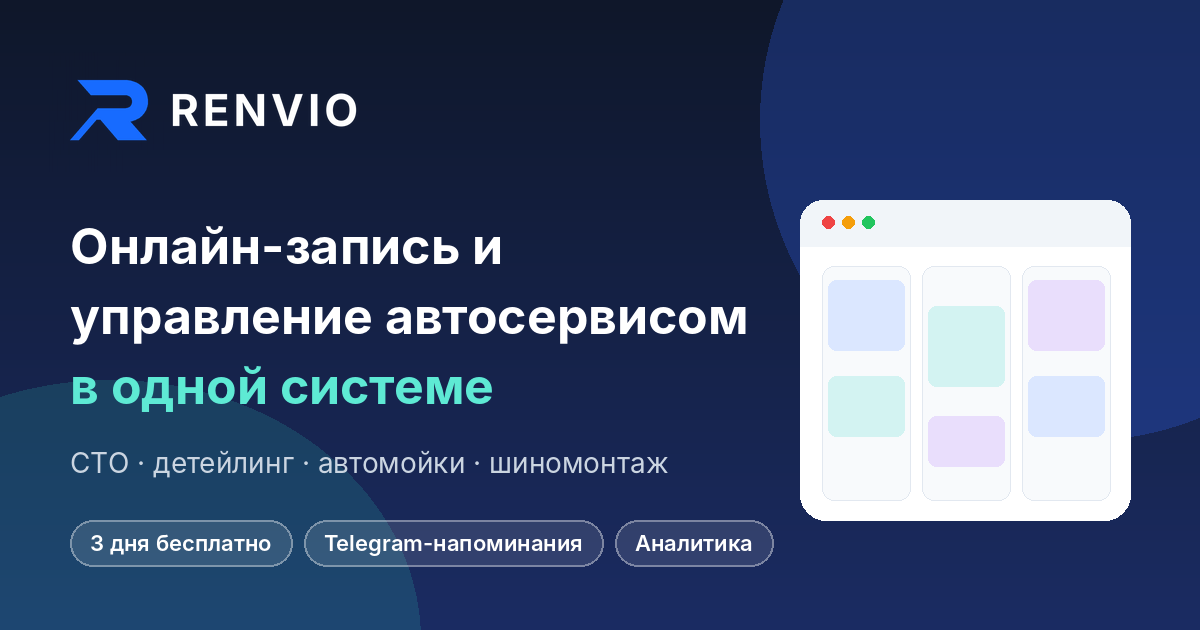
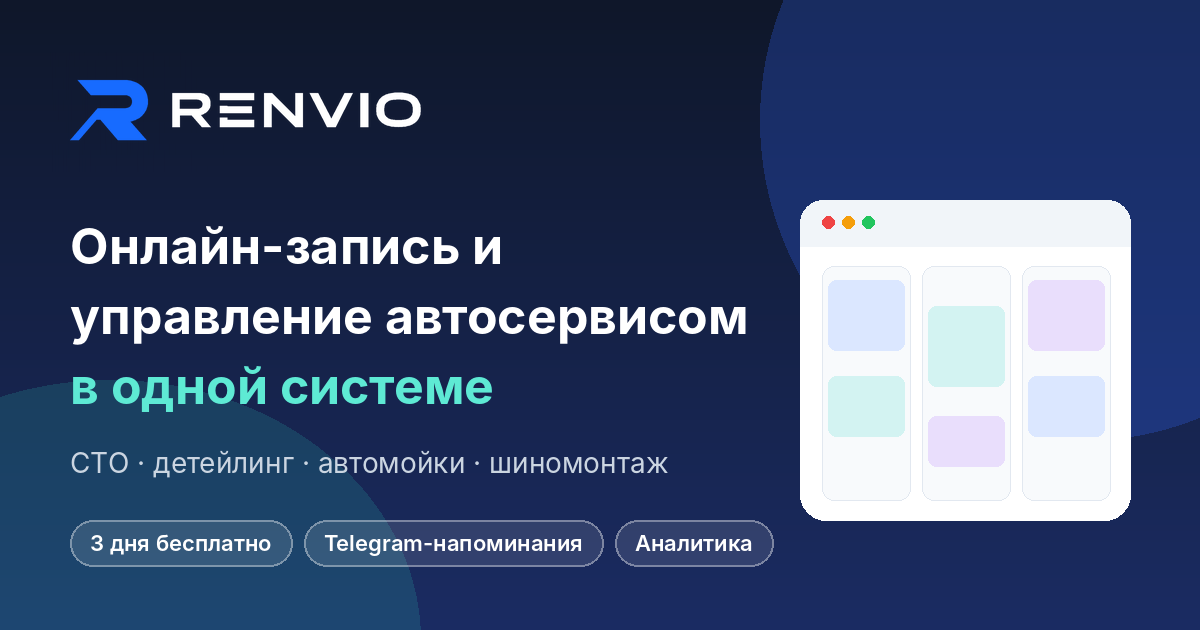
newwjgрпрпрпароолдолдрпарлОЛ

Changed region(s): [[0.1542, 0.1508, 0.37, 0.2111]]

diff --git a/src/pages/PlatformAdmin.tsx b/src/pages/PlatformAdmin.tsx
@@ -1,5 +1,5 @@
 import { maskPhone, PHONE_PLACEHOLDER } from '../lib/phone';
-import { BrandMark } from '../components/BrandMark'
+import { BrandMark, Wordmark } from '../components/BrandMark'
 import { useCallback, useEffect, useRef, useState, type FormEvent, type ReactNode } from 'react';
 import { recoveryLink, supabase } from '../lib/supabase';
 import { PasswordInput } from '../components/PasswordInput';
@@ -136,7 +136,7 @@ function Login({ msg, onDone }: { msg: string; onDone: () => void }) {
     onDone();
   };
   return (
-    <main className="page pf-login-page"><form className="card col pf-narrow" onSubmit={submit}><div className="pf-login-brand"><span className="pf-brand-mark"><BrandMark size={15} /></span><span><b>Renvio</b><small>Команда платформы</small></span></div><h1>Вход для команды</h1><p className="muted small">Здесь можно управлять организациями, оплатой и обращениями.</p>
+    <main className="page pf-login-page"><form className="card col pf-narrow" onSubmit={submit}><div className="pf-login-brand"><span className="pf-brand-mark"><BrandMark size={15} /></span><span><b className="pf-wordmark"><Wordmark height={11} /></b><small>Команда платформы</small></span></div><h1>Вход для команды</h1><p className="muted small">Здесь можно управлять организациями, оплатой и обращениями.</p>
       <input className="field" type="email" autoComplete="username" placeholder="Email" value={email} onChange={(e) => setEmail(e.target.value)} required />
       <PasswordInput className="field" autoComplete="current-password" placeholder="Пароль" value={password} onChange={(e) => setPassword(e.target.value)} required />
       {err && <p className="err">{err}</p>}{info && <p className="muted small" role="status">{info}</p>}
@@ -154,7 +154,7 @@ function MfaVerify({ onDone }: { onDone: () => void }) {
     try{await platformAuth('mfa_verify',{factor_id:factor.id,code:code.trim()});onDone()}catch{setErr('Неверный код.')}
   };
   return (
-    <main className="page pf-login-page"><form className="card col pf-narrow" onSubmit={submit}><div className="pf-login-brand"><span className="pf-brand-mark"><BrandMark size={15} /></span><span><b>Renvio</b><small>Google Authenticator</small></span></div><h1>Подтвердите вход</h1><p className="muted small">Откройте Google Authenticator и введите шестизначный код для сервиса Renvio.</p>
+    <main className="page pf-login-page"><form className="card col pf-narrow" onSubmit={submit}><div className="pf-login-brand"><span className="pf-brand-mark"><BrandMark size={15} /></span><span><b className="pf-wordmark"><Wordmark height={11} /></b><small>Google Authenticator</small></span></div><h1>Подтвердите вход</h1><p className="muted small">Откройте Google Authenticator и введите шестизначный код для сервиса Renvio.</p>
       <input className="field" inputMode="numeric" autoComplete="one-time-code" maxLength={6} placeholder="6 цифр" value={code} onChange={(e) => setCode(e.target.value)} required />
       {err && <p className="err">{err}</p>}<button className="btn">Подтвердить</button></form></main>);
 }
@@ -169,7 +169,7 @@ function MfaEnroll({ onDone }: { onDone: () => void }) {
     try{await platformAuth('mfa_verify',{factor_id:info.id,code:code.trim()});onDone()}catch{setErr('Неверный код.')}
   };
   return (
-    <main className="page pf-login-page"><section className="card col pf-narrow"><div className="pf-login-brand"><span className="pf-brand-mark"><BrandMark size={15} /></span><span><b>Renvio</b><small>Защищённый вход</small></span></div><h1>Защитите аккаунт</h1>
+    <main className="page pf-login-page"><section className="card col pf-narrow"><div className="pf-login-brand"><span className="pf-brand-mark"><BrandMark size={15} /></span><span><b className="pf-wordmark"><Wordmark height={11} /></b><small>Защищённый вход</small></span></div><h1>Защитите аккаунт</h1>
       <p className="muted">Чтобы защитить аккаунт, подключите приложение для кодов входа, например Google Authenticator или 1Password.</p>
       {!info ? <button className="btn" onClick={start}>Настроить</button> : (
         <form className="col" onSubmit={verify}><img src={info.qr} alt="QR-код для приложения-аутентификатора" width={200} height={200} />
@@ -205,7 +205,7 @@ function Console({ onLogout, role, accountEmail }: { onLogout: () => void; onMfa
   useEffect(() => { if (!visibleTabs.includes(tab)) setTab(role === 'support' ? 'Поддержка' : 'Главная'); }, [role]);
   return (
     <main className="page pf-wide">
-      <header className="pf-app-header"><div className="pf-brand"><span className="pf-brand-mark"><BrandMark size={15} /></span><div><b>Renvio</b><span>Platform console</span></div></div><div className="pf-header-actions"><span className="pf-header-user">{PLATFORM_ROLE_LABEL[role] ?? 'Нет доступа'}{accountEmail && <><br/><small>{accountEmail}</small></>}</span><button className="pf-logout" onClick={onLogout}>Выйти</button></div></header>
+      <header className="pf-app-header"><div className="pf-brand"><span className="pf-brand-mark"><BrandMark size={15} /></span><div><b className="pf-wordmark"><Wordmark height={11} /></b><span>Platform console</span></div></div><div className="pf-header-actions"><span className="pf-header-user">{PLATFORM_ROLE_LABEL[role] ?? 'Нет доступа'}{accountEmail && <><br/><small>{accountEmail}</small></>}</span><button className="pf-logout" onClick={onLogout}>Выйти</button></div></header>
       <div className="pf-console-layout"><nav className="pf-tabs" aria-label="Разделы платформы">{visibleTabs.map((t) => <button key={t} className={tab === t && !openTenant ? 'is-current' : ''} onClick={() => { setOpenTenant(null); setTab(t); if(t==='Уведомления'){const ids=platformNotices.data?.filter(x=>!x.is_read).map(x=>String(x.id))??[];if(ids.length)void call('notifications_read',{ids}).then(()=>platformNotices.reload())} }}>{t}{t==='Уведомления'&&platformNotices.data?.some(x=>!x.is_read)&&<i className="admin-unread-dot" aria-label="Есть непрочитанные уведомления"/>}</button>)}</nav>
       <section className="pf-console-content">{openTenant ? <TenantCard id={openTenant} role={role} onBack={() => setOpenTenant(null)} />
         : tab === 'Главная' ? <Dashboard onOpen={setOpenTenant} onNavigate={setTab} />

diff --git a/src/components/BrandMark.tsx b/src/components/BrandMark.tsx
@@ -12,3 +12,19 @@ export function BrandMark({ size = 24, color = '#176BFF', className }: { size?: 
     </svg>
   );
 }
+
+export function Wordmark({ height = 14, className }: { height?: number; className?: string }) {
+  return (
+    <svg
+      className={className}
+      viewBox="14 8 557 79"
+      width={Math.round((height * 557) / 79)}
+      height={height}
+      aria-hidden="true"
+      focusable="false"
+      style={{ display: 'block' }}
+    >
+      <path fill="currentColor" fillRule="evenodd" d="M15 10H73C91 10 100 19 100 32V37C100 47 91 55 79 59.5L101.2 86H80.7L58 60H32V86H15ZM32 25H69C78 25 82 29 82 35C82 41 79 45 70 45H32ZM121 10H198V26H121ZM121 39H138V40H193V55H121ZM121 65H138V70H198V86H121ZM220 10H238L290 62V10H307V86H290L237 33V86H220ZM322 10H341L370.5 67L400 10H418.5L380 86H361ZM435 10H453V86H435ZM570.0 47.5L569.9 51.5L569.6 54.6L569.2 57.4L568.6 60.0L567.8 62.5L566.8 64.8L565.7 67.0L564.4 69.1L562.9 71.1L561.3 73.0L559.5 74.7L557.6 76.3L555.5 77.9L553.2 79.2L550.8 80.5L548.3 81.7L545.6 82.7L542.7 83.5L539.7 84.3L536.5 84.9L533.2 85.4L529.6 85.7L525.6 85.9L520.5 86.0L515.4 85.9L511.4 85.7L507.8 85.4L504.5 84.9L501.3 84.3L498.3 83.5L495.4 82.7L492.7 81.7L490.2 80.5L487.8 79.2L485.5 77.9L483.4 76.3L481.5 74.7L479.7 73.0L478.1 71.1L476.6 69.1L475.3 67.0L474.2 64.8L473.2 62.5L472.4 60.0L471.8 57.4L471.4 54.6L471.1 51.5L471.0 47.5L471.1 43.5L471.4 40.4L471.8 37.6L472.4 35.0L473.2 32.5L474.2 30.2L475.3 28.0L476.6 25.9L478.1 23.9L479.7 22.0L481.5 20.3L483.4 18.7L485.5 17.1L487.8 15.8L490.2 14.5L492.7 13.3L495.4 12.3L498.3 11.5L501.3 10.7L504.5 10.1L507.8 9.6L511.4 9.3L515.4 9.1L520.5 9.0L525.6 9.1L529.6 9.3L533.2 9.6L536.5 10.1L539.7 10.7L542.7 11.5L545.6 12.3L548.3 13.3L550.8 14.5L553.2 15.8L555.5 17.1L557.6 18.7L559.5 20.3L561.3 22.0L562.9 23.9L564.4 25.9L565.7 28.0L566.8 30.2L567.8 32.5L568.6 35.0L569.2 37.6L569.6 40.4L569.9 43.5ZM552.0 47.5L552.0 50.7L551.8 52.8L551.6 54.5L551.2 56.1L550.8 57.5L550.3 58.8L549.6 60.1L548.9 61.2L548.1 62.3L547.2 63.3L546.2 64.2L545.1 65.1L543.9 65.9L542.6 66.6L541.2 67.2L539.7 67.8L538.1 68.3L536.4 68.8L534.5 69.1L532.5 69.4L530.3 69.7L527.9 69.9L525.0 70.0L520.5 70.0L516.0 70.0L513.1 69.9L510.7 69.7L508.5 69.4L506.5 69.1L504.6 68.8L502.9 68.3L501.3 67.8L499.8 67.2L498.4 66.6L497.1 65.9L495.9 65.1L494.8 64.2L493.8 63.3L492.9 62.3L492.1 61.2L491.4 60.1L490.7 58.8L490.2 57.5L489.8 56.1L489.4 54.5L489.2 52.8L489.0 50.7L489.0 47.5L489.0 44.3L489.2 42.2L489.4 40.5L489.8 38.9L490.2 37.5L490.7 36.2L491.4 34.9L492.1 33.8L492.9 32.7L493.8 31.7L494.8 30.8L495.9 29.9L497.1 29.1L498.4 28.4L499.8 27.8L501.3 27.2L502.9 26.7L504.6 26.2L506.5 25.9L508.5 25.6L510.7 25.3L513.1 25.1L516.0 25.0L520.5 25.0L525.0 25.0L527.9 25.1L530.3 25.3L532.5 25.6L534.5 25.9L536.4 26.2L538.1 26.7L539.7 27.2L541.2 27.8L542.6 28.4L543.9 29.1L545.1 29.9L546.2 30.8L547.2 31.7L548.1 32.7L548.9 33.8L549.6 34.9L550.3 36.2L550.8 37.5L551.2 38.9L551.6 40.5L551.8 42.2L552.0 44.3Z" />
+    </svg>
+  );
+}

diff --git a/src/pages/ServiceStatus.tsx b/src/pages/ServiceStatus.tsx
@@ -1,5 +1,5 @@
 import { useQuery } from '@tanstack/react-query'
-import { BrandMark } from '../components/BrandMark'
+import { BrandMark, Wordmark } from '../components/BrandMark'
 import '../styles.css'
 import './platform.css'
 
@@ -33,7 +33,7 @@ export function ServiceStatus(){
   const report=health.data
   const summary=report?STATUS[report.status]:null
   return <main className="page pf-wide service-status-page">
-    <header className="pf-app-header"><div className="pf-brand"><span className="pf-brand-mark"><BrandMark size={15} /></span><div><b>Renvio</b><span>Статус сервиса</span></div></div><a className="pf-action-secondary" href="/">На главную</a></header>
+    <header className="pf-app-header"><div className="pf-brand"><span className="pf-brand-mark"><BrandMark size={15} /></span><div><b className="pf-wordmark"><Wordmark height={11} /></b><span>Статус сервиса</span></div></div><a className="pf-action-secondary" href="/">На главную</a></header>
     <section className="service-status-wrap">
       <div className="service-status-heading"><div><span className="pf-kicker">СОСТОЯНИЕ ПЛАТФОРМЫ</span><h1>Статус сервиса</h1><p className="muted">Состояние обновляется автоматически.</p></div></div>
       {health.isPending?<section className="service-status-summary"><span className="service-status-indicator is-loading"/><div><h2>Проверяем системы</h2><p className="muted">Получаем свежие ответы компонентов.</p></div></section>:health.isError?<section className="service-status-summary is-down"><span className="service-status-indicator"/><div><h2>Не удалось получить статус</h2><p className="muted">Мониторинг сейчас не отвечает. Попробуйте обновить проверку.</p></div><button className="link" onClick={()=>void health.refetch()}>Повторить</button></section>:report&&<>

diff --git a/src/marketing/components/layout/Footer.tsx b/src/marketing/components/layout/Footer.tsx
@@ -1,7 +1,7 @@
 import { useEffect, useState } from 'react';
 import { Link } from 'react-router-dom';
 import { SITE } from '../../config/site';
-import { BrandMark } from '../../../components/BrandMark';
+import { BrandMark, Wordmark } from '../../../components/BrandMark';
 import './Footer.scss';
 
 type Health = 'loading' | 'operational' | 'degraded' | 'outage' | 'unknown';
@@ -40,7 +40,7 @@ export function Footer() {
     <footer className="footer">
       <div className="container footer__grid">
         <div>
-          <p className="footer__brand"><BrandMark size={22} /><span>RENVIO</span></p>
+          <p className="footer__brand"><BrandMark size={22} /><Wordmark height={14} /></p>
           <p className="footer__text">
             Облачная система управления автосервисами и сервисными предприятиями в Казахстане.
           </p>

diff --git a/src/marketing/components/layout/Header.tsx b/src/marketing/components/layout/Header.tsx
@@ -1,7 +1,7 @@
 import { useState } from 'react';
 import { Link, NavLink } from 'react-router-dom';
 import { Button } from '../ui/Button';
-import { BrandMark } from '../../../components/BrandMark';
+import { BrandMark, Wordmark } from '../../../components/BrandMark';
 import './Header.scss';
 
 const navItems = [
@@ -19,7 +19,7 @@ export function Header() {
       <div className="container header__inner">
         <Link to="/" className="header__logo" aria-label="Renvio — на главную" onClick={closeMenu}>
           <BrandMark size={26} />
-          <span>RENVIO</span>
+          <Wordmark height={15} />
         </Link>
 
         <nav

diff --git a/src/pages/platform.css b/src/pages/platform.css
@@ -173,3 +173,4 @@
 .pf-support h3{margin:0}
 .pf-org__actions a.pf-action-secondary,.pf-org__actions button.pf-action-secondary,.pf-zone__row .pf-action-secondary{padding:10px 14px;border-radius:10px;text-decoration:none;font-size:13px}
 @media(max-width:640px){.pf-org__stats{grid-template-columns:1fr}.pf-org__head{flex-direction:column}.pf-org{padding:18px}}
+.pf-wordmark{display:block;line-height:0;margin:2px 0 4px;color:#f4f6fa}

diff --git a/src/marketing/components/layout/Header.scss b/src/marketing/components/layout/Header.scss
@@ -21,9 +21,6 @@
     align-items: center;
     gap: 10px;
     color: $color-text;
-    font-size: 20px;
-    font-weight: 700;
-    letter-spacing: 0.08em;
     text-decoration: none;
   }
 

diff --git a/src/marketing/components/layout/Footer.scss b/src/marketing/components/layout/Footer.scss
@@ -18,9 +18,6 @@
     align-items: center;
     gap: 10px;
     margin-bottom: 8px;
-    font-size: 18px;
-    font-weight: 700;
-    letter-spacing: 0.08em;
   }
 
   &__text,
